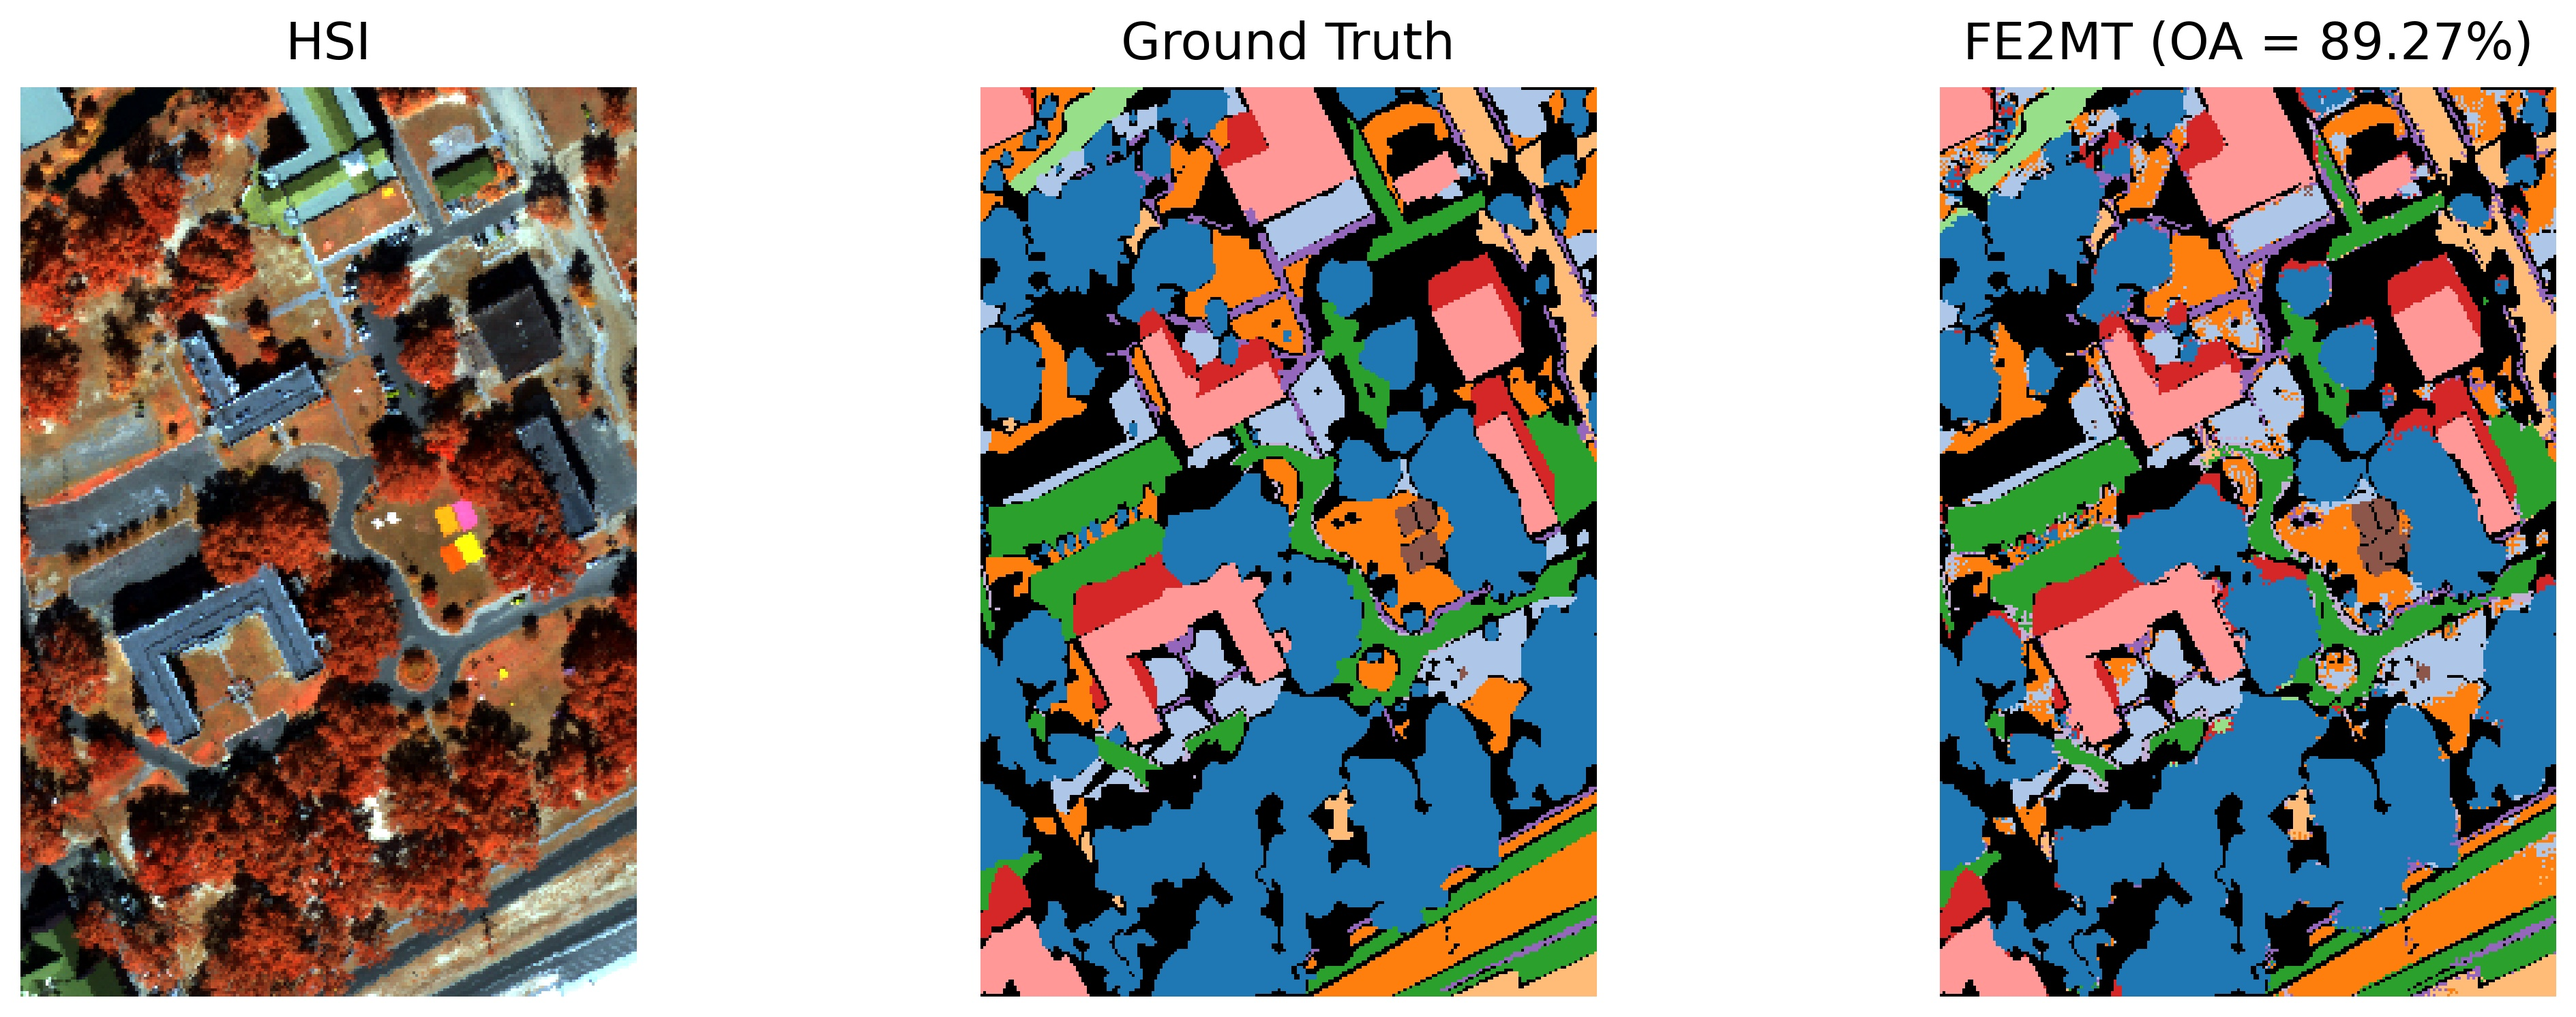
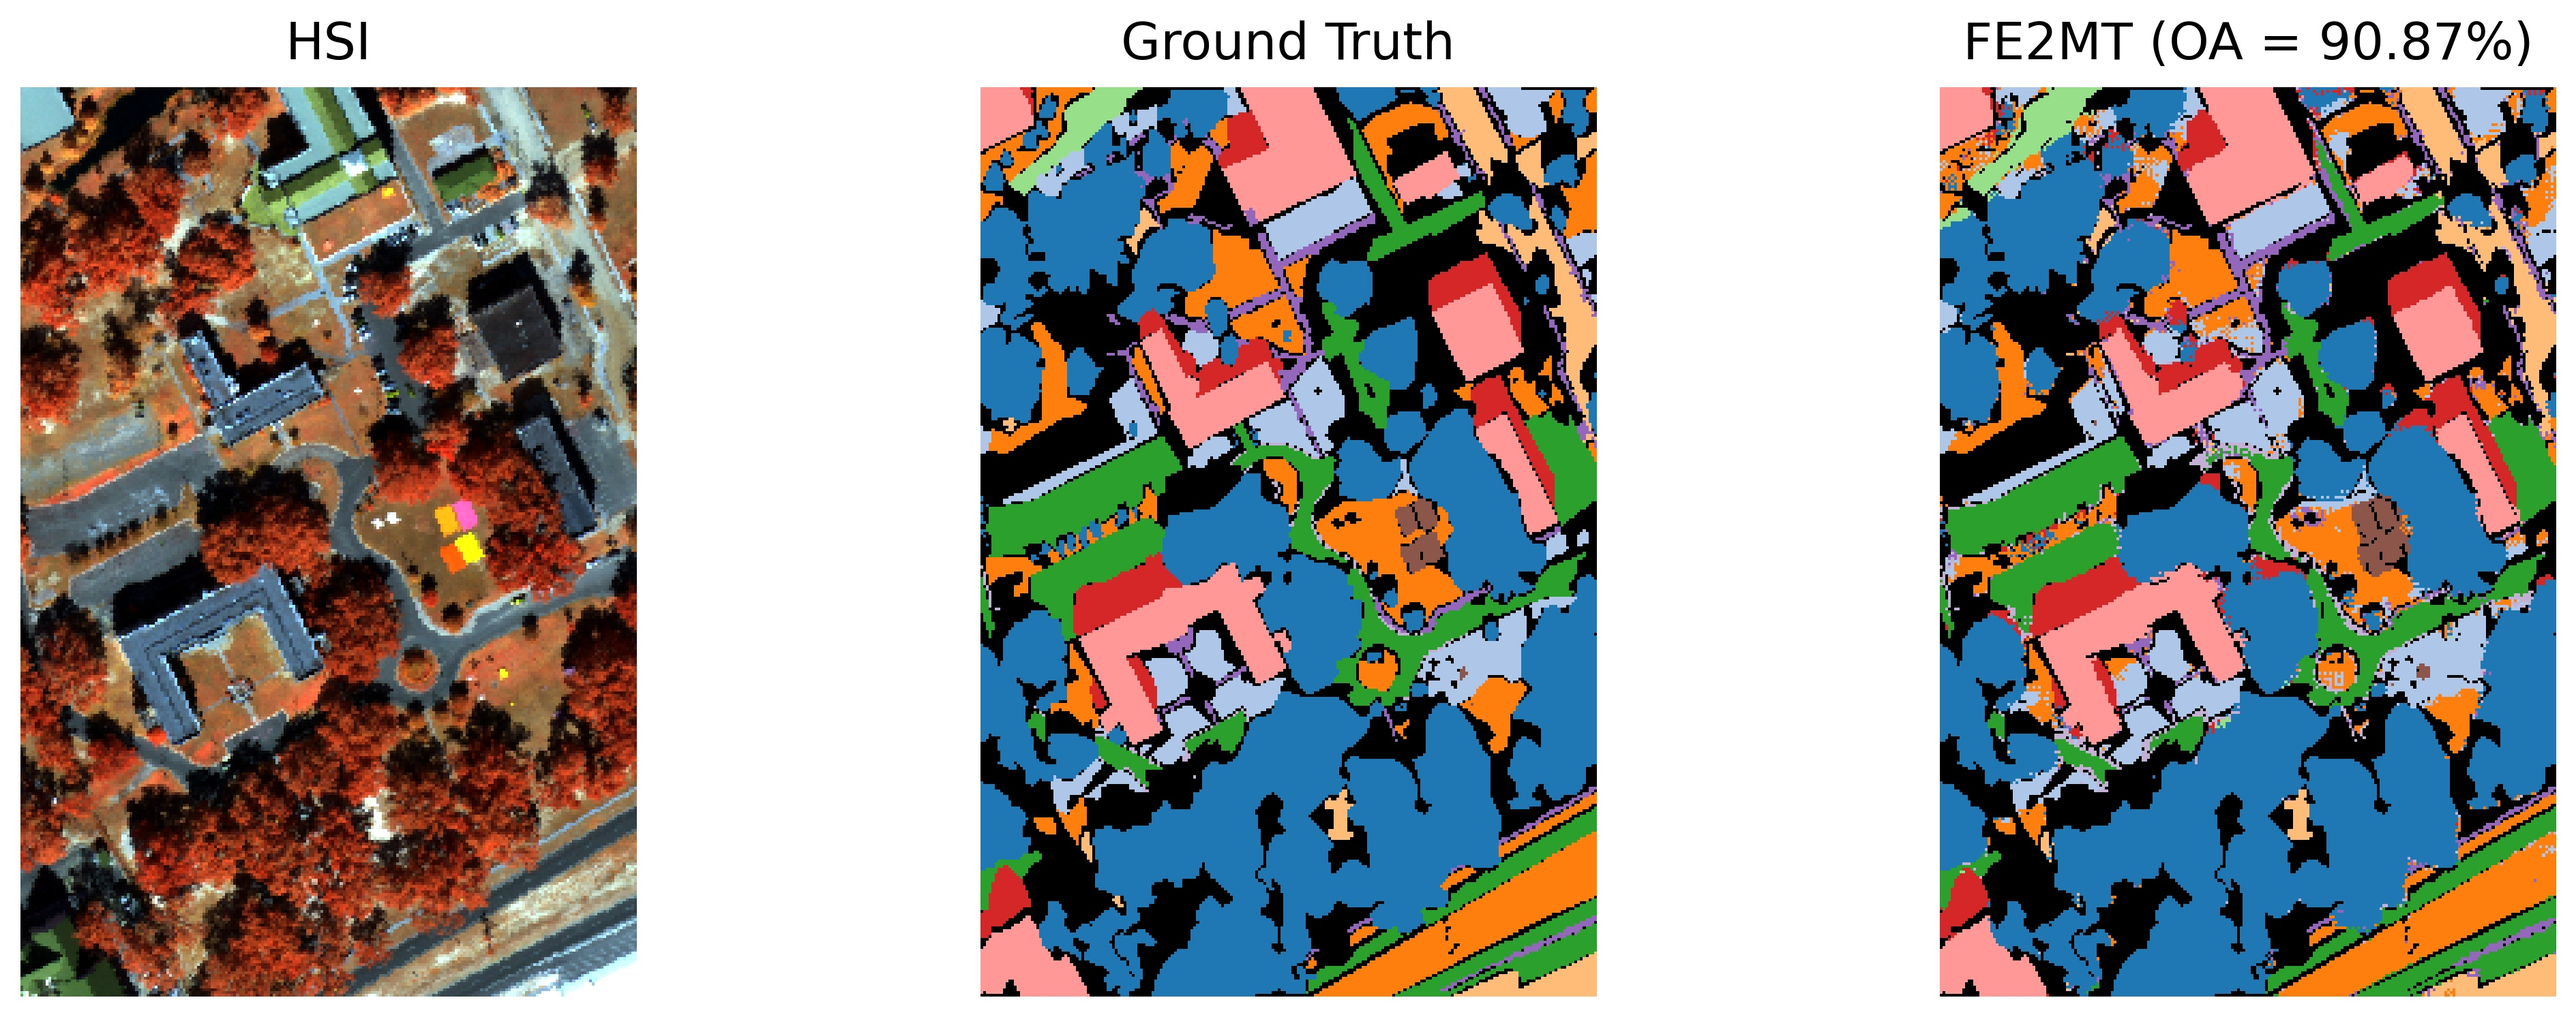
Update patch size to 16

diff --git a/train.py b/train.py
@@ -145,17 +145,17 @@ def parse_args() -> argparse.Namespace:
     """Parse command-line arguments."""
     parser = argparse.ArgumentParser(description="Train FE2MT.")
 
-    parser.add_argument("--dataset_root", type=str, default="data/Houston2013")
+    parser.add_argument("--dataset_root", type=str, default="data/MUUFL")
     parser.add_argument(
         "--protocol",
         type=str,
         default="random_per_class",
         choices=["random_per_class", "random_percent"],
     )
-    parser.add_argument("--train_per_class", type=int, default=20)
+    parser.add_argument("--train_per_class", type=int, default=60)
     parser.add_argument("--train_percent", type=float, default=0.2)
 
-    parser.add_argument("--patch_size", type=int, default=12)
+    parser.add_argument("--patch_size", type=int, default=16)
     parser.add_argument("--pad_mode", type=str, default="symmetric")
 
     parser.add_argument("--epochs", type=int, default=100)

diff --git a/fe2mt.py b/fe2mt.py
@@ -468,7 +468,7 @@ class FE2MT(nn.Module):
         hsi_channels: int = 144,
         lidar_channels: int = 1,
         num_classes: int = 15,
-        patch_size: int = 12,
+        patch_size: int = 16,
         embed_dim: int = 128,
         depth: int = 4,
         num_heads: int = 8,

diff --git a/README.md b/README.md
@@ -128,7 +128,7 @@ python train.py --dataset_root data/Trento
 The experimental configuration is:
 
 - Training samples per class: 20 for Houston2013, 60 for MUUFL, and 20 for Trento
-- Patch size: 12
+- Patch size: 16
 - Embedding dimension: 128
 - Transformer depth: 4
 - Number of attention heads: 8
@@ -162,8 +162,8 @@ The quantitative results are reported as the mean and standard deviation over 10
 
 | Dataset | OA (%) | AA (%) | Kappa (%) |
 |:---|---:|---:|---:|
-| Houston2013 | 95.65 ± 0.65 | 96.30 ± 0.53 | 95.30 ± 0.71 |
-| MUUFL | 88.71 ± 0.63 | 88.98 ± 0.51 | 85.27 ± 0.78 |
+| Houston2013 | 96.54 ± 0.66 | 96.99 ± 0.52 | 96.26 ± 0.71 |
+| MUUFL | 89.67 ± 0.64 | 89.84 ± 0.48 | 86.49 ± 0.80 |
 | Trento | 99.20 ± 0.37 | 98.71 ± 0.41 | 98.93 ± 0.49 |
 
 ### Classification Maps
